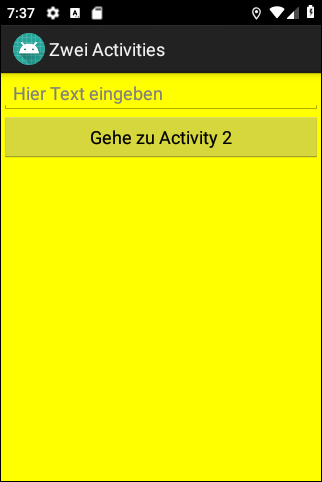
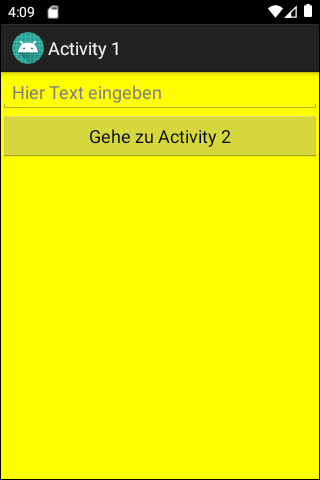
Die beiden Activities haben jetzt einen eigenen Titel.

diff --git a/app/src/main/java/de/mide/zweiactivities/Activity2.java b/app/src/main/java/de/mide/zweiactivities/Activity2.java
@@ -28,15 +28,15 @@ public class Activity2 extends Activity
 
 
     /**
-     * In dieser Methode wird u.a. auch der Intent ausgelesen, mit dem die Activity
-     * aufgerufen wurde. Aus diesem Intent kann das Key-Value-Pair mit dem auf
-     * Activity1 eingegebenen Text ausgelesen werden.
+     * Lifecycle-Methode zur Initialisierung des Activity-Objekts.
      */
     @Override
     protected void onCreate(Bundle savedInstanceState) {
 
         super.onCreate(savedInstanceState);
         setContentView(R.layout.activity_2);
+
+        setTitle(R.string.titel_activity_2);
 
         _textView = findViewById(R.id.textViewAufActivity2);
 

diff --git a/app/src/main/java/de/mide/zweiactivities/Activity1.java b/app/src/main/java/de/mide/zweiactivities/Activity1.java
@@ -26,15 +26,15 @@ public class Activity1 extends Activity
 
 
     /**
-     * Nach Laden der Layout-Datei und Füllen der Member-Variablen mit Referenzen auf UI-Elemente
-     * wird noch die Activity-Instanz selbst ("this") als Event-Handler für den Button
-     * registriert.
+     * Lifecycle-Methode zur Initialisierung des Activity-Objekts.
      */
     @Override
     protected void onCreate(Bundle savedInstanceState) {
 
         super.onCreate(savedInstanceState);
         setContentView(R.layout.activity_1);
+
+        setTitle(R.string.titel_activity_1);
 
         _editText = findViewById(R.id.editTextAufActivity1);
 

diff --git a/README.md b/README.md
@@ -1,4 +1,4 @@
-# Android-App "Zwei Activities" (Two Activities)
+# Android-App "Zwei Activities" (Two Activities) #
 
 App demonstrates how to use an **explicit intent** to go from one activity to another activity
 of the same app.
@@ -16,7 +16,7 @@ Identifiers (names for classes, variables and methods), UI texts and comments ar
 <br>
 
 ----
-## Screenshots
+## Screenshots ##
 
 ![Screenshot 1](screenshot_1.png)  ![Screenshot 2](screenshot_2.png)
 
@@ -24,6 +24,6 @@ Identifiers (names for classes, variables and methods), UI texts and comments ar
 <br>
 
 ----
-# License
+# License #
 
 See the [LICENSE file](LICENSE.md) for license rights and limitations (BSD 3-Clause License).
